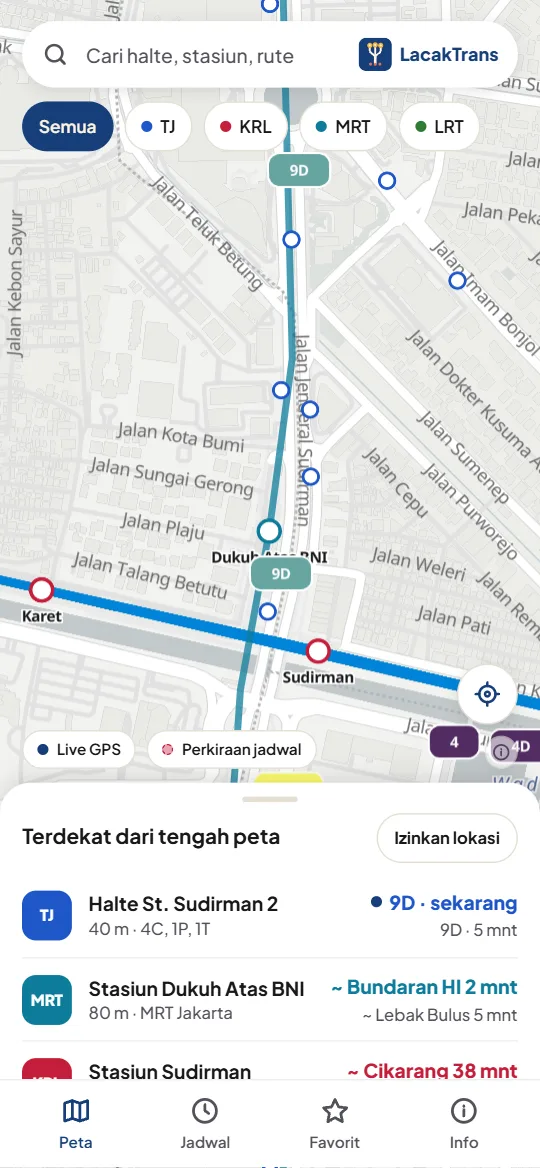
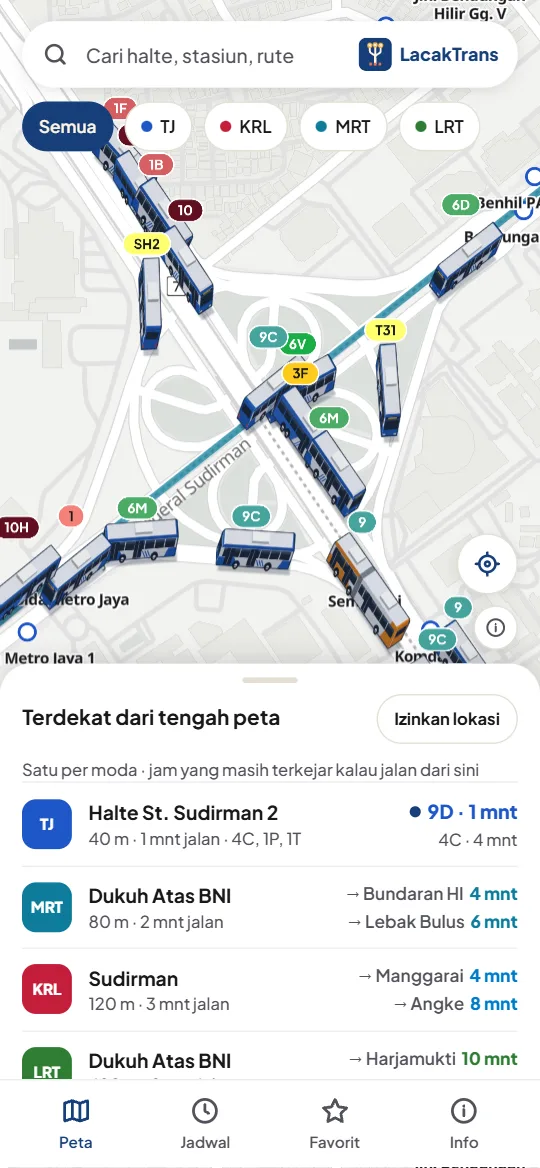
Rilis 1.0.0: gambar UI terbaru (tanda 3D, Semanggi, Sudirman, Senayan, KRL), Tentang aplikasi sesuai fitur sekarang, JSON-LD dan llms.txt disamakan

diff --git a/index.html b/index.html
@@ -45,7 +45,7 @@
             "@id": "https://unduh-lt.silsilara.com/#aplikasi",
             "name": "LacakTrans",
             "alternateName": "LacakTrans by Silsilara",
-            "description": "Aplikasi gratis untuk melihat posisi dan jadwal transportasi umum Jakarta dalam satu peta: bus TransJakarta live dari GPS armada, KRL, MRT, LRT Jabodebek, dan LRT Jakarta diperkirakan dari jadwal. Tanpa akun dan tanpa iklan.",
+            "description": "Aplikasi gratis untuk melihat posisi dan jadwal transportasi umum Jakarta dalam satu peta: bus TransJakarta live dari GPS armada, KRL, MRT, LRT Jabodebek, dan LRT Jakarta diperkirakan dari jadwal resmi operator. Tanpa akun dan tanpa iklan.",
             "url": "https://unduh-lt.silsilara.com/",
             "applicationCategory": "TravelApplication",
             "operatingSystem": "Android 5.1+",
@@ -60,11 +60,12 @@
               "https://unduh-lt.silsilara.com/gambar/4-kereta.webp"
             ],
             "featureList": [
-              "Posisi bus TransJakarta live dari GPS armada",
-              "Posisi KRL, MRT, dan LRT diperkirakan dari jadwal, ditandai jelas",
-              "Semua moda dalam satu peta",
-              "Kedatangan berikutnya di halte dan stasiun",
-              "Bagikan rute dan kartu Story",
+              "Posisi bus TransJakarta live dari GPS armada, tanda 3D di zoom dekat",
+              "Posisi KRL, MRT, dan LRT diperkirakan dari jadwal resmi operator, ditandai jelas",
+              "Semua moda dalam satu peta, terdekat per moda, peta bisa diputar dengan kompas",
+              "Kedatangan berikutnya, jadwal lengkap, dan pindah moda di halte dan stasiun",
+              "Bagikan lokasi bus live sampai halte tujuan, posisi kereta, rute, dan kartu Story",
+              "Info gangguan dan pengumuman di peta",
               "Bahasa Indonesia dan English, tema gelap dan terang"
             ],
             "author": { "@id": "https://unduh-lt.silsilara.com/#pengembang" },
@@ -91,7 +92,7 @@
               {
                 "@type": "Question",
                 "name": "Kenapa posisi kereta disebut perkiraan?",
-                "acceptedAnswer": { "@type": "Answer", "text": "KRL, MRT, dan LRT belum membuka data posisi kereta. LacakTrans menghitung posisinya dari jadwal, jadi ditandai perkiraan dan bisa berbeda dari kereta sebenarnya. Posisi bus TransJakarta berasal dari GPS armada." }
+                "acceptedAnswer": { "@type": "Answer", "text": "KRL, MRT, dan LRT belum membuka data posisi kereta. LacakTrans menghitung posisinya dari jadwal resmi operator, jadi ditandai perkiraan dan bisa berbeda dari kereta sebenarnya. Posisi bus TransJakarta berasal dari GPS armada." }
               },
               {
                 "@type": "Question",
@@ -182,12 +183,12 @@
       <section aria-labelledby="judul-layar">
         <h2 id="judul-layar">Tampilan aplikasi</h2>
         <div class="layar">
-          <img src="gambar/1-peta.webp" alt="Peta: bus TransJakarta live dan kereta perkiraan di sekitar Dukuh Atas" width="270" height="584" loading="lazy" />
-          <img src="gambar/2-tooltip.webp" alt="Kartu bus: rute, asal dan tujuan, halte berikutnya, perkiraan tiba" width="270" height="584" loading="lazy" />
-          <img src="gambar/3-halte.webp" alt="Layar halte: kedatangan bus berikutnya" width="270" height="584" loading="lazy" />
-          <img src="gambar/4-kereta.webp" alt="Layar kereta: stasiun berikutnya dan perkiraan tiba di tiap stasiun" width="270" height="584" loading="lazy" />
+          <img src="gambar/1-peta.webp" alt="Peta: bus TransJakarta live sebagai tanda 3D di simpang susun Semanggi" width="270" height="584" loading="lazy" />
+          <img src="gambar/2-tooltip.webp" alt="Kartu bus di atas tanda 3D: rute, halte berikutnya, perkiraan tiba, dan tombol Bagikan" width="270" height="584" loading="lazy" />
+          <img src="gambar/3-halte.webp" alt="Layar halte Senayan Bank Jakarta: rute yang lewat dan kedatangan bus berikutnya dari GPS armada" width="270" height="584" loading="lazy" />
+          <img src="gambar/4-kereta.webp" alt="Layar KRL: posisi perkiraan di antara dua stasiun dan jam tiba di tiap stasiun dari jadwal resmi" width="270" height="584" loading="lazy" />
         </div>
-        <p class="kecil">Posisi bus berasal dari GPS armada TransJakarta; posisi kereta diperkirakan dari jadwal.</p>
+        <p class="kecil">Posisi bus berasal dari GPS armada TransJakarta; posisi kereta diperkirakan dari jadwal resmi operator.</p>
       </section>
 
       <section id="bagian-baru" aria-labelledby="judul-baru" hidden>
@@ -223,14 +224,16 @@
             pertanyaan yang paling sering: kendaraan saya di mana sekarang, dan kapan sampai di halte atau stasiun saya?
           </p>
           <ul>
-            <li><strong>Bus TransJakarta live.</strong> Posisi dari GPS armada, diperbarui tiap beberapa detik, lengkap dengan halte berikutnya dan perkiraan tiba.</li>
-            <li><strong>KRL, MRT, LRT Jabodebek, LRT Jakarta.</strong> Posisi diperkirakan dari jadwal dan ditandai jelas, tidak dibuat seolah-olah live.</li>
-            <li><strong>Satu peta.</strong> Semua moda di satu layar, dengan filter per moda dan halte atau stasiun terdekat dari Anda.</li>
-            <li><strong>Bagikan perjalanan.</strong> Tautan rute, Google Maps, atau kartu Story untuk WhatsApp, Instagram, TikTok, dan Facebook.</li>
+            <li><strong>Bus TransJakarta live.</strong> Posisi dari GPS armada, diperbarui tiap beberapa detik, lengkap dengan halte berikutnya dan perkiraan tiba. Di zoom dekat, bus dan kereta tampil sebagai tanda 3D yang menghadap arah jalannya.</li>
+            <li><strong>KRL, MRT, LRT Jabodebek, LRT Jakarta.</strong> Posisi diperkirakan dari jadwal resmi operator dan ditandai jelas, tidak dibuat seolah-olah live.</li>
+            <li><strong>Satu peta.</strong> Semua moda di satu layar, dengan filter per moda, halte dan stasiun terdekat untuk tiap moda, serta peta yang bisa diputar dengan kompas.</li>
+            <li><strong>Halte dan stasiun.</strong> Kedatangan berikutnya, jadwal lengkap, pilihan pindah moda di sekitar, dan favorit.</li>
+            <li><strong>Bagikan perjalanan.</strong> Bagikan lokasi bus secara live sampai halte tujuan Anda, posisi kereta (perkiraan), tautan rute, Google Maps, atau kartu Story untuk WhatsApp, Instagram, TikTok, dan Facebook.</li>
+            <li><strong>Info gangguan dan pengumuman</strong> langsung di peta, tanpa perlu memperbarui aplikasi.</li>
             <li><strong>Tanpa akun, tanpa iklan.</strong> Favorit dan setelan hanya di HP Anda.</li>
-            <li><strong>Bahasa Indonesia &amp; English</strong>, tema gelap dan terang.</li>
+            <li><strong>Bahasa Indonesia &amp; English</strong>, tema gelap dan terang (termasuk peta gelap).</li>
           </ul>
-          <p class="kecil">LacakTrans adalah aplikasi independen, tidak berafiliasi dengan TransJakarta, KAI Commuter, MRT Jakarta, maupun LRT.</p>
+          <p class="kecil">LacakTrans adalah aplikasi independen, tidak berafiliasi dengan TransJakarta, KAI Commuter, MRT Jakarta, LRT Jakarta, maupun LRT Jabodebek.</p>
         </div>
       </section>
 
@@ -250,7 +253,7 @@
         </details>
         <details>
           <summary>Kenapa posisi kereta disebut perkiraan?</summary>
-          <p>KRL, MRT, dan LRT belum membuka data posisi kereta. LacakTrans menghitung posisinya dari jadwal, jadi ditandai perkiraan dan bisa berbeda dari kereta sebenarnya. Posisi bus TransJakarta berasal dari GPS armada.</p>
+          <p>KRL, MRT, dan LRT belum membuka data posisi kereta. LacakTrans menghitung posisinya dari jadwal resmi operator, jadi ditandai perkiraan dan bisa berbeda dari kereta sebenarnya. Posisi bus TransJakarta berasal dari GPS armada.</p>
         </details>
         <details>
           <summary>Saya memakai iPhone atau laptop.</summary>
